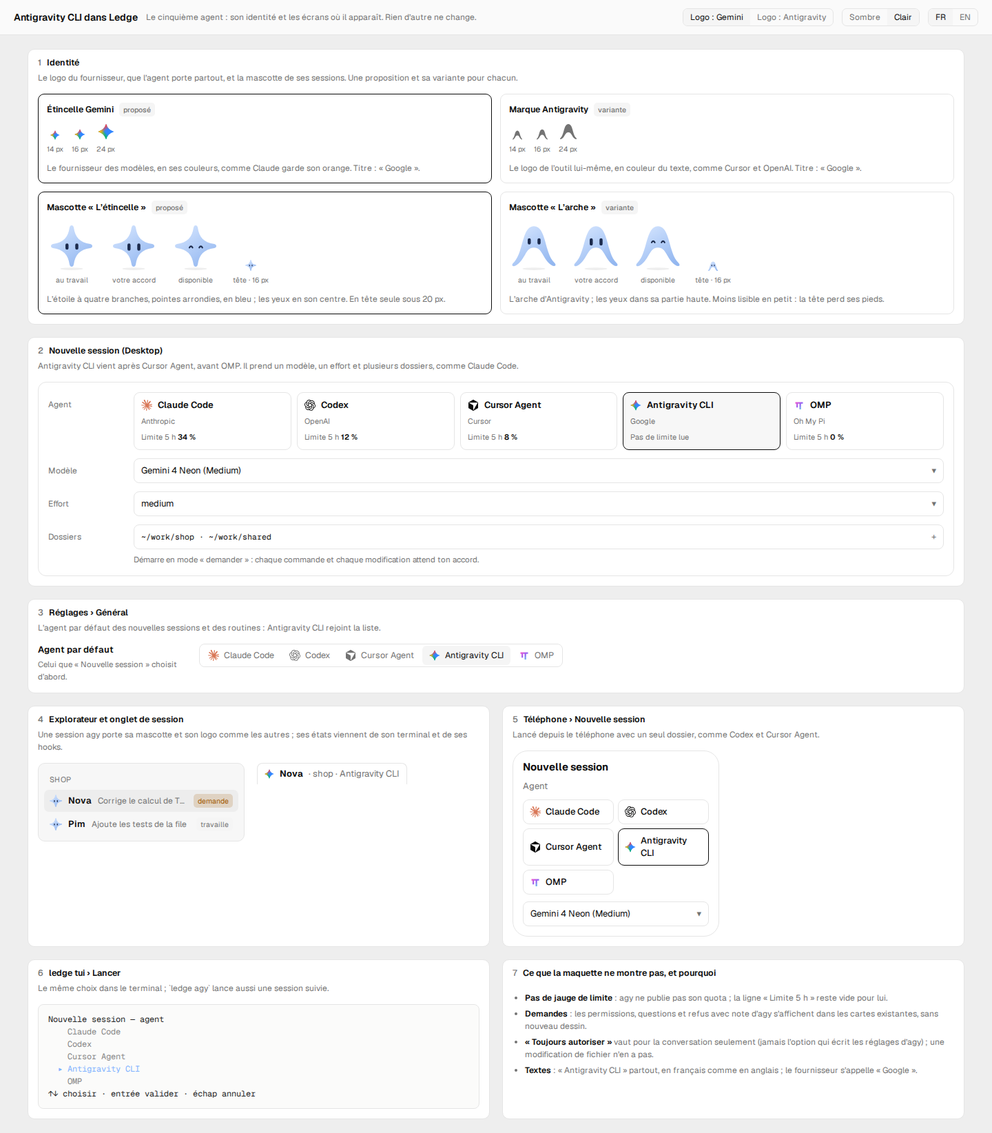
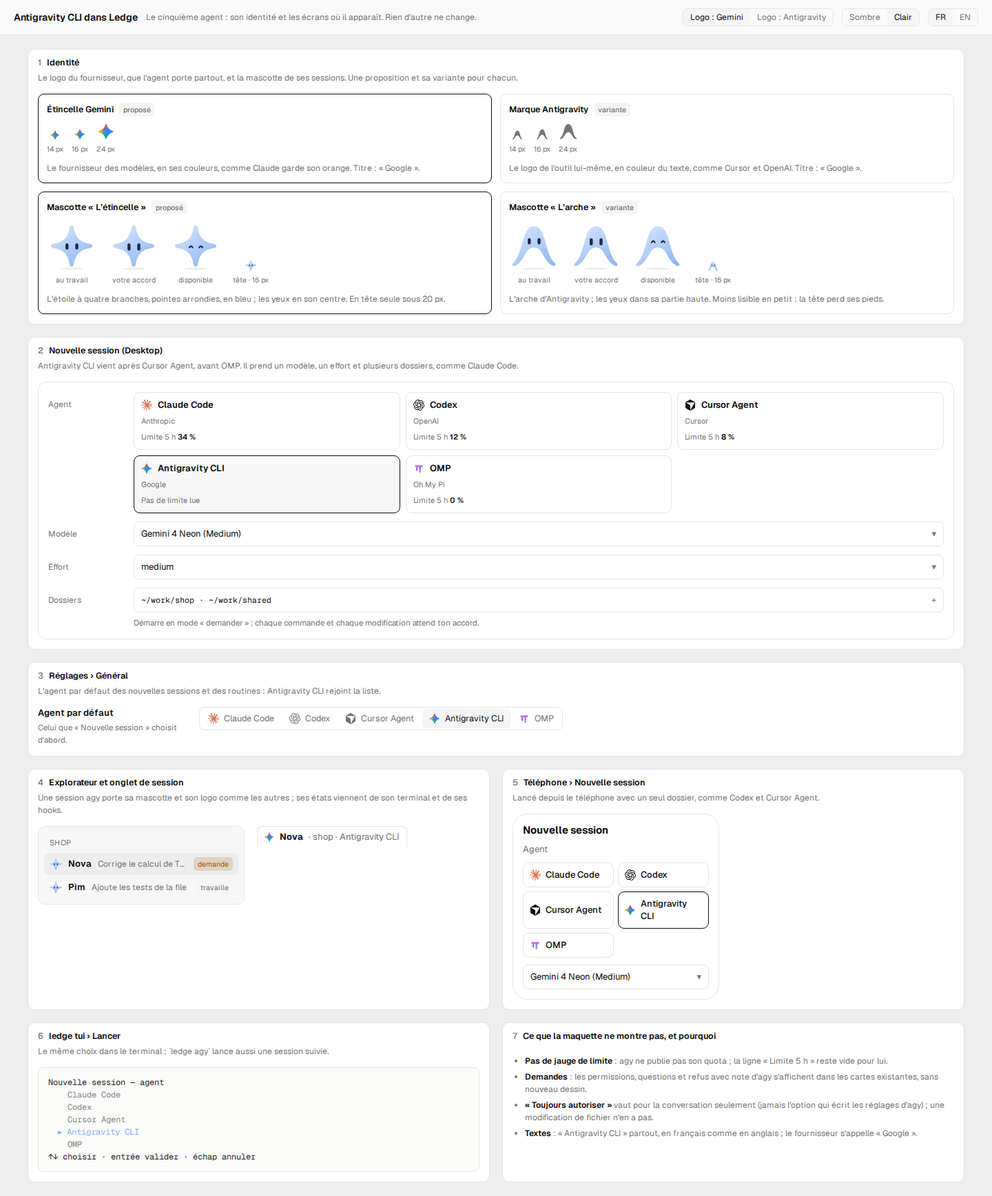
feat(desktop): Antigravity CLI in New session, Settings, routines and the session views
As approved in docs/mockups/ledge-agy.html: agy after Cursor Agent and
before OMP with Gemini's mark and « Google », « Pas de limite lue » on its
tile, the asking-mode hint under the form, and the agents' tiles in rows of
three (five in one row wrapped every name in the real 780 px dialog; the
owner chose the rows). A launch is blocked with its reason where the daemon
does not announce agy or agy cannot list its models, as OMP's. A model id of
Gemini wears Gemini's mark in the session bar. Checked with Playwright in
both themes (launch dialog with agy chosen, default agent).

Written with Codex, reviewed and corrected here.

diff --git a/apps/desktop/src/i18n/fr.ts b/apps/desktop/src/i18n/fr.ts
@@ -1328,10 +1328,11 @@ export const fr = {
     isDefault: 'Présélectionné pour vos prochaines sessions.', defaultStays: (n: string) => `Votre défaut reste ${n}.`, setDefault: (n: string) => `Définir ${n} par défaut`, doneChoosing: 'Terminer le choix',
     onlyThisOne: (n: string) => `Pour cette session uniquement. Défaut : ${n}.`, backToDefault: 'Revenir au défaut',
     switched: (n: string) => `${n} pour cette session. Consigne, projet et dépôts conservés ; modèle remis au défaut de l’agent.`, defaultSaved: (n: string) => `${n} sera présélectionné pour les prochaines sessions.`,
+    agyHint: 'Démarre en mode « demander » : chaque commande et chaque modification attend ton accord.',
     ompNative: 'Conversation pilotée dans Ledge. Seul le shell libre reste disponible, sans suivi terminal OMP.',
     approval: 'Autorisations', approvalOutdated: 'Mettez à jour Ledge sur cette machine pour choisir les autorisations d’OMP : il demandera avant chaque écriture ou commande.',
     approvals: { 'always-ask': ['Demander', 'Avant chaque écriture ou commande'], write: ['Fichiers auto', 'Écrit sans demander, demande avant les commandes'], yolo: ['Auto', 'Approuve tout, commandes comprises'] } as Record<OmpApproval, readonly [string, string]>,
-    tools: { claude: ['Claude Code', 'Conception, revue'], codex: ['Codex', 'Code et tests'], cursor: ['Cursor Agent', 'Dans l’éditeur'], omp: ['OMP', 'Piloté en natif'] } as Record<'claude' | 'codex' | 'cursor' | 'omp', readonly [string, string]>,
+    tools: { claude: ['Claude Code', 'Conception, revue'], codex: ['Codex', 'Code et tests'], cursor: ['Cursor Agent', 'Dans l’éditeur'], agy: ['Antigravity CLI', 'Google'], omp: ['OMP', 'Piloté en natif'] } as Record<'claude' | 'codex' | 'cursor' | 'agy' | 'omp', readonly [string, string]>,
     project: 'Projet', machine: 'Machine', offline: 'hors ligne', offlineTitle: 'Hors ligne : reconnectez la machine dans les réglages',
     repos: (m: string) => `Dossiers et dépôts sur ${m}`, noGit: 'Dossier sans Git', notFound: 'introuvable', oneRepo: (t: string) => `Un seul dossier ou dépôt pour ${t}`,
     noRepos: (p: string, m: string) => `Aucun dossier ni dépôt de ${p} sur ${m}.`, editProject: 'Modifier le projet',
@@ -1349,6 +1350,7 @@ export const fr = {
     searchModel: 'Chercher un modèle ou taper un identifiant', searchFew: 'Chercher, ou taper un identifiant', searchMany: (n: number) => `Chercher parmi ${n} modèles, ou taper un identifiant`, resultCount: (n: number, total: number) => `${n} sur ${total}`,
     useAsIs: 'Utiliser tel quel', noMatch: 'Aucun modèle ne correspond.', notAnId: 'Aucun modèle ne correspond, et ce n’est pas un identifiant de modèle.', moreModels: (n: number) => `${n} autres : tapez pour les chercher`,
     modelsLoading: 'Lecture des modèles de la machine…', modelsUnavailable: (e: string) => `Liste des modèles indisponible (${e}) : le défaut et un identifiant exact restent possibles.`,
+    agyOutdated: 'Antigravity CLI ne peut pas être lancé ici : mettez à jour Ledge sur cette machine.', agyUnavailable: (e: string) => `Antigravity CLI ne peut pas être lancé sur cette machine (${e}). Choisissez un autre agent ou installez agy là-bas ; rien n’est changé à votre place.`,
     ompOutdated: 'OMP ne peut pas être lancé ici : mettez à jour Ledge sur cette machine.', ompUnavailable: (e: string) => `OMP ne peut pas être lancé sur cette machine (${e}). Choisissez un autre agent ou réparez OMP là-bas ; rien n’est changé à votre place.`,
     modelsOutdated: 'Mettez à jour Ledge sur cette machine pour choisir le modèle.',
     effort: 'Effort', effortHint: 'Temps de réflexion par tour', cursorEffort: 'Effort compris dans le nom du modèle', lessEffort: 'Moins d’effort', moreEffort: 'Plus d’effort',
@@ -1363,7 +1365,7 @@ export const fr = {
       agent: 'Agent', model: 'Modèle', permissions: 'Permissions', message: 'Premier message',
       open: 'Ouvrir', openActive: 'Dans le groupe actif', openRight: 'À droite',
       limit: (pct: string, reset: string | null) => `Limite 5 h ${pct}${reset ? ` · réinit. ${reset}` : ''}`, limitMonth: (pct: string, reset: string | null) => `Limite du mois ${pct}${reset ? ` · réinit. ${reset}` : ''}`,
-      limitWeek: (pct: string, reset: string | null) => `Limite de la semaine ${pct}${reset ? ` · réinit. ${reset}` : ''}`, limitUnread: 'Limite non lue',
+      limitWeek: (pct: string, reset: string | null) => `Limite de la semaine ${pct}${reset ? ` · réinit. ${reset}` : ''}`, limitUnread: 'Limite non lue', noLimitRead: 'Pas de limite lue',
       offline: 'hors ligne', launch: 'Lancer', launchKeys: 'Ctrl Entrée', cancel: 'Annuler',
       // docs/mockups/ledge-sidebar-names.html, card 4: the name stands in the title and is edited there (it replaced #15's switch).
       name: 'Nom', renameTip: 'Renommer', editHint: (n: string) => `Entrée valide le nom · Échap revient à ${n}`,

diff --git a/apps/desktop/src/i18n/en.ts b/apps/desktop/src/i18n/en.ts
@@ -1256,10 +1256,11 @@ export const en: Messages = {
     isDefault: 'Preselected for your next sessions.', defaultStays: (n) => `Your default stays ${n}.`, setDefault: (n) => `Make ${n} the default`, doneChoosing: 'Done',
     onlyThisOne: (n) => `For this session only. Default: ${n}.`, backToDefault: 'Back to the default',
     switched: (n) => `${n} for this session. Instruction, project and repositories kept; model back to the agent’s default.`, defaultSaved: (n) => `${n} will be preselected for the next sessions.`,
+    agyHint: 'Starts in the asking mode: every command and every edit waits for your approval.',
     ompNative: 'The conversation is driven in Ledge. Only the free shell remains, with no OMP terminal to follow.',
     approval: 'Permissions', approvalOutdated: 'Update Ledge on this machine to choose OMP’s permissions: it will ask before every write or command.',
     approvals: { 'always-ask': ['Ask', 'Before every write or command'], write: ['Auto files', 'Writes without asking, asks before commands'], yolo: ['Auto', 'Approves everything, commands included'] },
-    tools: { claude: ['Claude Code', 'Design, review'], codex: ['Codex', 'Code and tests'], cursor: ['Cursor Agent', 'In the editor'], omp: ['OMP', 'Driven natively'] },
+    tools: { claude: ['Claude Code', 'Design, review'], codex: ['Codex', 'Code and tests'], cursor: ['Cursor Agent', 'In the editor'], agy: ['Antigravity CLI', 'Google'], omp: ['OMP', 'Driven natively'] },
     project: 'Project', machine: 'Machine', offline: 'offline', offlineTitle: 'Offline: reconnect the machine in Settings',
     repos: (m) => `Folders and repositories on ${m}`, noGit: 'Folder without Git', notFound: 'not found', oneRepo: (t) => `One folder or repository only for ${t}`,
     noRepos: (p, m) => `No folder or repository of ${p} on ${m}.`, editProject: 'Edit the project',
@@ -1277,6 +1278,7 @@ export const en: Messages = {
     searchModel: 'Search a model or type an id', searchFew: 'Search, or type an id', searchMany: (n: number) => `Search ${n} models, or type an id`, resultCount: (n: number, total: number) => `${n} of ${total}`,
     useAsIs: 'Use as is', noMatch: 'No model matches.', notAnId: 'No model matches, and this is not a model id.', moreModels: (n: number) => `${n} more: type to search them`,
     modelsLoading: 'Reading the machine’s models…', modelsUnavailable: (e: string) => `Model list unavailable (${e}): the default and an exact id still work.`,
+    agyOutdated: 'Antigravity CLI cannot be launched here: update Ledge on this machine.', agyUnavailable: (e: string) => `Antigravity CLI cannot be launched on this machine (${e}). Pick another agent or install agy there; nothing is switched for you.`,
     ompOutdated: 'OMP cannot be launched here: update Ledge on this machine.', ompUnavailable: (e: string) => `OMP cannot be launched on this machine (${e}). Pick another agent or fix OMP there; nothing is switched for you.`,
     modelsOutdated: 'Update Ledge on this machine to choose the model.',
     effort: 'Effort', effortHint: 'Thinking time per turn', cursorEffort: 'Effort is in the model name', lessEffort: 'Less effort', moreEffort: 'More effort',
@@ -1290,7 +1292,7 @@ export const en: Messages = {
       agent: 'Agent', model: 'Model', permissions: 'Permissions', message: 'First message',
       open: 'Open', openActive: 'In the active group', openRight: 'On the right',
       limit: (pct, reset) => `5 h limit ${pct}${reset ? ` · resets ${reset}` : ''}`, limitMonth: (pct, reset) => `Monthly limit ${pct}${reset ? ` · resets ${reset}` : ''}`,
-      limitWeek: (pct, reset) => `Weekly limit ${pct}${reset ? ` · resets ${reset}` : ''}`, limitUnread: 'Limit not read',
+      limitWeek: (pct, reset) => `Weekly limit ${pct}${reset ? ` · resets ${reset}` : ''}`, limitUnread: 'Limit not read', noLimitRead: 'No limit read',
       offline: 'offline', launch: 'Launch', launchKeys: 'Ctrl Enter', cancel: 'Cancel',
       name: 'Name', renameTip: 'Rename', editHint: (n) => `Enter keeps the name · Esc goes back to ${n}`,
       cleaned: (n) => `The session will be called ${n}: spaces and punctuation are removed.`,

diff --git a/apps/desktop/e2e/ide-launch.spec.ts b/apps/desktop/e2e/ide-launch.spec.ts
@@ -47,16 +47,18 @@ for (const theme of ['dark', 'light'] as const) test(`a group's + opens the moda
   const labelX = (await box(labels.first())).x;
   expect(Math.round(fieldsX - labelX)).toBe(166);
   for (const l of await labels.all()) expect(Math.round((await box(l)).x)).toBe(Math.round(labelX));
-  // Four agent tiles side by side, as wide as each other; Claude's limit amber (84 % over 80 %), Cursor's not read.
+  // Five agent tiles in rows of three (the owner's choice, 2026-11-27: five in one row wrap every name), as wide as each other; Claude's limit amber (84 % over 80 %), Cursor's not read.
   const tiles = form.locator('.launch-modal-agent');
-  await expect(tiles).toHaveCount(4);
+  await expect(tiles).toHaveCount(5);
   const tb = await Promise.all((await tiles.all()).map(box));
-  expect(new Set(tb.map(b => Math.round(b.y))).size).toBe(1);
+  expect(new Set(tb.map(b => Math.round(b.y))).size).toBe(2);
   expect(new Set(tb.map(b => Math.round(b.width))).size).toBe(1);
   await expect(tiles.nth(0)).toContainText(/Limite 5 h 84 % · réinit\. /);
   await expect(tiles.nth(0).locator('b.amber')).toHaveText('84 %');
   await expect(tiles.nth(1).locator('b')).not.toHaveClass(/amber/);
   await expect(tiles.nth(2)).toContainText('Limite non lue');
+  await expect(tiles.nth(3)).toContainText('Antigravity CLI');
+  await expect(tiles.nth(3)).toContainText('Pas de limite lue');
   // The fields bordered as the mockup's .inp and .agent (app.css's button reset must not win), the Project and Model fields 30 px high.
   const border = (l: Locator) => l.evaluate(e => getComputedStyle(e).borderTopWidth);
   expect(await border(form.locator('.launch-modal-inp'))).toBe('1px');
@@ -81,6 +83,18 @@ for (const theme of ['dark', 'light'] as const) test(`a group's + opens the moda
   await expect(dialog).toBeVisible();
   await page.evaluate(() => document.fonts.ready.then(() => undefined));
   await dialog.screenshot({ path: info.outputPath(`ide-launch-${theme}.png`), animations: 'disabled' });
+  // Antigravity CLI chosen (docs/mockups/ledge-agy.html, card 2): its name on one line at the others' size, Gemini's mark, the
+  // asking-mode hint under the form; on a daemon that does not announce it, the launch is blocked with the reason.
+  await tiles.nth(3).click();
+  await expect(tiles.nth(3)).toHaveAttribute('aria-pressed', 'true');
+  await expect(tiles.nth(3).locator('.logo')).toHaveAttribute('title', 'Google');
+  const nameOf = (i: number) => tiles.nth(i).locator('.an');
+  expect(Math.round((await box(nameOf(3))).height)).toBe(Math.round((await box(nameOf(0))).height));
+  expect(await nameOf(3).evaluate(e => getComputedStyle(e).fontSize)).toBe(await nameOf(0).evaluate(e => getComputedStyle(e).fontSize));
+  await expect(form).toContainText('Démarre en mode « demander »');
+  await page.evaluate(() => document.fonts.ready.then(() => undefined));
+  await dialog.screenshot({ path: info.outputPath(`ide-launch-agy-${theme}.png`), animations: 'disabled' });
+  await tiles.nth(0).click();
   // The model list: each row wears its provider's logo.
   await form.locator('.model-trigger').click();
   await expect(page.locator('.model-menu .model-option .logo')).toHaveCount(1);

diff --git a/apps/desktop/src/launch/LaunchModal.tsx b/apps/desktop/src/launch/LaunchModal.tsx
@@ -27,7 +27,7 @@ import type { LaunchState } from './useLaunch';
 
 export type LaunchWhere = 'active' | 'right';
 
-const TOOLS: readonly Tool[] = ['claude', 'codex', 'cursor', 'omp'];
+const TOOLS: readonly Tool[] = ['claude', 'codex', 'cursor', 'agy', 'omp'];
 const APPROVALS: readonly OmpApproval[] = ['always-ask', 'write', 'yolo'];
 
 const onRow = (f: LaunchForm, r: ProjectRow) => f.project === r.project && f.machine === r.machine && f.repos[0] === r.path;
@@ -102,7 +102,7 @@ export function LaunchModal(p: {
   const infos = useRepoInfo(p.client, online ? form.machine : null, reposOn(project, form.machine).map(r => r.path));
   const models = useModels(p.client, online ? form.machine : null, form.tool);
   const outdated = models.error === 'outdated';
-  const unavailable = ompBlocked(form, online, models);
+  const unavailable = ompBlocked(form, online, models, chosen?.daemon);
   const approvable = chosen?.daemon?.ompApproval === true;
   const memo = loadPick(form.project, form.tool);
   const remembered = !!memo?.remembered && memo.model === form.model && memo.effort === form.effort;
@@ -222,13 +222,13 @@ export function LaunchModal(p: {
             {TOOLS.map(tool => (
               <button type="button" key={tool} className={cls('launch-modal-agent', form.tool === tool && 'on')} aria-pressed={form.tool === tool}
                 onClick={() => { if (tool !== form.tool) setForm(f => withTool(f, tool, loadPick(f.project, tool))); }}>
-                <span className="an"><span aria-hidden="true"><ProviderLogo provider={providerOf(tool)} size={16} /></span>{t.launch.tools[tool][0]}</span>
+                <span className="an"><span aria-hidden="true"><ProviderLogo provider={providerOf(tool)} size={16} /></span><span>{t.launch.tools[tool][0]}</span></span>
                 <small>{PROVIDER_TITLES[providerOf(tool)]}</small>
-                <LimitLine limit={agentLimit(p.usage.groups, tool, form.machine, p.usage.threshold, p.usage.now)} lang={lang} now={p.usage.now} m={m} />
+                {tool === 'agy' ? <small>{m.noLimitRead}</small> : <LimitLine limit={agentLimit(p.usage.groups, tool, form.machine, p.usage.threshold, p.usage.now)} lang={lang} now={p.usage.now} m={m} />}
               </button>
             ))}
           </div>
-          {unavailable !== null && <p className="launch-modal-alert" role="alert">{unavailable === 'outdated' ? t.launch.ompOutdated : t.launch.ompUnavailable(unavailable)}</p>}
+          {unavailable !== null && <p className="launch-modal-alert" role="alert">{form.tool === 'agy' ? (unavailable === 'outdated' ? t.launch.agyOutdated : t.launch.agyUnavailable(unavailable)) : unavailable === 'outdated' ? t.launch.ompOutdated : t.launch.ompUnavailable(unavailable)}</p>}
         </div>
 
         <span className="launch-modal-lbl">{m.model}</span>
@@ -262,6 +262,8 @@ export function LaunchModal(p: {
             </label>
           ))}
         </div>
+
+        {form.tool === 'agy' && <><span /><small className="models-note">{t.launch.agyHint}</small></>}
 
         <span />
         <div className="launch-modal-go">

diff --git a/apps/desktop/src/launch/LaunchComposer.tsx b/apps/desktop/src/launch/LaunchComposer.tsx
@@ -21,7 +21,7 @@ import { useDefaultTool } from '../settings/tool';
 // The IDE's New session modal rides in this module's lazy chunk (launch/lazy.tsx).
 export { LaunchModal } from './LaunchModal';
 
-const TOOLS: readonly Tool[] = ['claude', 'codex', 'cursor', 'omp'];
+const TOOLS: readonly Tool[] = ['claude', 'codex', 'cursor', 'agy', 'omp'];
 const APPROVALS: readonly OmpApproval[] = ['always-ask', 'write', 'yolo'];
 const folderName = (path: string) => path.replace(/[\\/]+$/, '').split(/[\\/]/).pop() || path;
 
@@ -71,7 +71,7 @@ export function LaunchComposer(p: {
   // #58: the agent's models on that machine; a daemon too old for them takes no model, so none is offered or sent.
   const models = useModels(p.client, online ? form.machine : null, form.tool);
   const outdated = models.error === 'outdated';
-  const unavailable = ompBlocked(form, online, models);
+  const unavailable = ompBlocked(form, online, models, chosen?.daemon);
   const memo = loadPick(form.project, form.tool);
   const remembered = !!memo?.remembered && memo.model === form.model && memo.effort === form.effort;
 
@@ -191,7 +191,7 @@ export function LaunchComposer(p: {
           {!choosing && form.tool !== defaultTool && (
             <div className="harness-override"><span>{t.launch.onlyThisOne(label(defaultTool))}</span><button type="button" onClick={() => choose(defaultTool)}>{t.launch.backToDefault}</button></div>
           )}
-          {unavailable !== null && <p className="harness-unavailable" role="alert">{unavailable === 'outdated' ? t.launch.ompOutdated : t.launch.ompUnavailable(unavailable)}</p>}
+          {unavailable !== null && <p className="harness-unavailable" role="alert">{form.tool === 'agy' ? (unavailable === 'outdated' ? t.launch.agyOutdated : t.launch.agyUnavailable(unavailable)) : unavailable === 'outdated' ? t.launch.ompOutdated : t.launch.ompUnavailable(unavailable)}</p>}
           {online && !unavailable && (outdated ? <small className="models-note">{t.launch.modelsOutdated}</small>
             : <ModelPicker key={`${form.machine}|${form.tool}|${form.project}`} tool={form.tool} state={models} pick={form} remembered={remembered} onPick={pick => setForm(f => withPick(f, pick))} />)}
           {form.tool === 'omp' && !unavailable && (approvable ? (
@@ -205,6 +205,7 @@ export function LaunchComposer(p: {
               <small className="chip-hint">{t.launch.approvals[form.approval][1]}</small>
             </fieldset>
           ) : online && <small className="models-note">{t.launch.approvalOutdated}</small>)}
+          {form.tool === 'agy' && <p className="harness-native">{t.launch.agyHint}</p>}
           {form.tool === 'omp' && <p className="harness-native">{t.launch.ompNative}</p>}
           <p className="harness-live" role="status">{feedback}</p>
         </section>

diff --git a/docs/mockups/ledge-agy.html b/docs/mockups/ledge-agy.html
@@ -8,6 +8,8 @@
 <link href="https://fonts.googleapis.com/css2?family=Geist:wght@400;500;600;650&family=Geist+Mono:wght@400;500&display=swap" rel="stylesheet">
 <style>
 /* Approuvée par l'owner le 2026-11-27 : logo Gemini (« google ») et mascotte « L'étincelle » ; les variantes Antigravity et « L'arche » sont écartées.
+   Précisé le même jour : les tuiles d'agents de « Nouvelle session » par rangées de trois (cinq sur une ligne font passer chaque nom à la ligne
+   dans la fenêtre réelle) ; sur le téléphone, la tuile d'agy dit « Modèles Gemini » / « Gemini models », comme les autres disent leur rôle.
    Antigravity CLI (agy) comme cinquième agent : son identité (logo du fournisseur, mascotte) et les écrans où il apparaît.
    Base : docs/mockups/ledge-launch-name.html (même grille, mêmes tokens), packages/ui (ProviderLogo, Bot, logo.css),
    apps/desktop/src/launch/LaunchModal.tsx, settings/General.tsx, apps/mobile/src/screens/NewSession.tsx, ledge tui.
@@ -59,7 +61,7 @@ main{padding:20px;display:grid;grid-template-columns:repeat(2,minmax(0,1fr));gap
 /* Nouvelle session (Desktop) */
 .modal{background:var(--background);border:1px solid var(--border);border-radius:12px;padding:14px;display:grid;grid-template-columns:110px 1fr;gap:12px 14px;align-items:start}
 .lbl{color:var(--muted-foreground);font-size:12px;padding-top:9px}
-.agents{display:grid;grid-template-columns:repeat(5,minmax(0,1fr));gap:8px}
+.agents{display:grid;grid-template-columns:repeat(3,minmax(0,1fr));gap:8px}
 .agent{display:flex;flex-direction:column;gap:5px;padding:9px 10px;border:1px solid var(--border);border-radius:9px;min-width:0}
 .agent.on{border-color:var(--foreground);background:color-mix(in srgb,var(--foreground) 3%,transparent)}
 .agent .an{display:flex;align-items:center;gap:8px;font-weight:600;white-space:nowrap;overflow:hidden;text-overflow:ellipsis}

diff --git a/apps/desktop/test/agy-launch.test.ts b/apps/desktop/test/agy-launch.test.ts
@@ -1,0 +1,20 @@
+import { expect, it } from 'vitest';
+import { launchMessage, toggleRepo, withTool, type LaunchForm } from '../src/launch/model';
+import { ompBlocked } from '../src/launch/send';
+
+it('keeps and sends multiple folders, model and effort for Antigravity', () => {
+  const form: LaunchForm = { tool: 'claude', prompt: 'Go', project: 'p', machine: 'local', repos: ['/a', '/b'], model: null, effort: null, approval: 'always-ask' };
+  const agy = toggleRepo(withTool(form, 'agy', { model: 'gemini', effort: 'high' }), '/c');
+  expect(launchMessage(agy, 'Nova')).toMatchObject({ tool: 'agy', cwd: '/a', dirs: ['/b', '/c'], model: 'gemini', effort: 'high' });
+  expect(withTool(agy, 'cursor').repos).toEqual(['/a']);
+});
+
+it('blocks an Antigravity CLI launch on a daemon that does not announce it, or where agy cannot list its models', () => {
+  const ready = { status: 'ready' as const, models: [] };
+  expect(ompBlocked({ tool: 'agy' }, true, ready, { agy: false })).toBe('outdated');
+  expect(ompBlocked({ tool: 'agy' }, true, ready, { agy: true })).toBeNull();
+  expect(ompBlocked({ tool: 'agy' }, true, { ...ready, error: 'not installed' }, { agy: true })).toBe('not installed');
+  // Offline, nothing is said: the machine's own state is shown instead.
+  expect(ompBlocked({ tool: 'agy' }, false, ready, { agy: false })).toBeNull();
+  expect(ompBlocked({ tool: 'claude' }, true, ready, { agy: false })).toBeNull();
+});

diff --git a/apps/desktop/src/styles/ide.css b/apps/desktop/src/styles/ide.css
@@ -395,12 +395,12 @@ body.ide-resizing-y { cursor: row-resize; user-select: none; }
 .launch-modal-rows button:disabled { opacity: .55; cursor: not-allowed; }
 .launch-modal-rows small { margin-left: auto; font-size: 11px; color: var(--muted-foreground); }
 .launch-modal-empty { display: flex; align-items: center; gap: 12px; padding-top: 2px; }
-.launch-modal-agents { display: grid; grid-template-columns: repeat(4, minmax(0, 1fr)); gap: 8px; }
+.launch-modal-agents { display: grid; grid-template-columns: repeat(3, minmax(0, 1fr)); gap: 8px; }
 .launch-modal .launch-modal-agent { min-width: 0; display: flex; flex-direction: column; gap: 5px; padding: 9px 10px; border: 1px solid var(--border); border-radius: 9px; text-align: left; color: var(--foreground); }
 .launch-modal .launch-modal-agent:hover { border-color: var(--input); }
 .launch-modal .launch-modal-agent.on { border-color: var(--foreground); background: color-mix(in srgb, var(--foreground) 3%, transparent); }
 .launch-modal-agent .an { display: flex; align-items: center; gap: 8px; font-weight: 600; }
-.launch-modal-agent .an > span { display: inline-flex; }
+.launch-modal-agent .an > span:first-child { display: inline-flex; flex: none; }
 .launch-modal-agent small { color: var(--muted-foreground); font-size: 11px; }
 .launch-modal-agent small b { font-weight: 500; color: var(--foreground); }
 .launch-modal-agent small b.amber { color: var(--warning); }

diff --git a/apps/desktop/src/launch/send.ts b/apps/desktop/src/launch/send.ts
@@ -5,9 +5,11 @@ import type { ModelsState } from './useModels';
 import { savePick } from './modelPrefs';
 
 /** OMP is launched by the daemon itself, with no fallback to another harness: where it cannot be reached (not installed, a daemon
- *  that does not know it, no credentials), the launch is blocked with the reason (spec 2026-10-20 §3.1). */
-export function ompBlocked(form: Pick<LaunchForm, 'tool'>, online: boolean, models: ModelsState): string | null {
-  return form.tool === 'omp' && online && models.status === 'ready' && models.error ? models.error : null;
+ *  that does not know it, no credentials), the launch is blocked with the reason (spec 2026-10-20 §3.1). Antigravity CLI the same:
+ *  a daemon older than its support refuses the tool (`outdated`), one without `agy` installed cannot list its models. */
+export function ompBlocked(form: Pick<LaunchForm, 'tool'>, online: boolean, models: ModelsState, daemon?: { agy?: boolean } | null): string | null {
+  if (form.tool === 'agy' && online && daemon && !daemon.agy) return 'outdated';
+  return (form.tool === 'omp' || form.tool === 'agy') && online && models.status === 'ready' && models.error ? models.error : null;
 }
 
 /** The message sent for `form`: the model chosen is remembered for the project (unless the daemon is too old for models, which then

diff --git a/apps/desktop/test/ide/launch-modal.test.tsx b/apps/desktop/test/ide/launch-modal.test.tsx
@@ -273,7 +273,19 @@ describe('LaunchModal', () => {
       expect(trigger().querySelector('.logo')).toHaveAttribute('title', 'Cursor');
       await user.click(trigger());
       const rows = screen.getAllByRole('option');
-      expect(rows.map(r => r.querySelector('.logo')?.getAttribute('title'))).toEqual(['Cursor', 'Anthropic', 'OpenAI', 'Cursor']);
+      expect(rows.map(r => r.querySelector('.logo')?.getAttribute('title'))).toEqual(['Cursor', 'Anthropic', 'OpenAI', 'Google']);
     });
   });
+});
+
+it('offers Antigravity after Cursor with its Google identity and asking hint', async () => {
+  const user = userEvent.setup();
+  render(ui(props()));
+  const buttons = within(screen.getByRole('group', { name: 'Agent' })).getAllByRole('button');
+  expect(buttons.map(b => b.querySelector('.an')?.textContent)).toEqual(['Claude Code', 'Codex', 'Cursor Agent', 'Antigravity CLI', 'OMP']);
+  const agy = buttons[3]!;
+  expect(agy).toHaveTextContent('Google');
+  expect(agy).toHaveTextContent('Pas de limite lue');
+  await user.click(agy);
+  expect(screen.getByText('Démarre en mode « demander » : chaque commande et chaque modification attend ton accord.')).toBeVisible();
 });

diff --git a/apps/desktop/src/workspace/sessionTab.ts b/apps/desktop/src/workspace/sessionTab.ts
@@ -11,12 +11,13 @@ export { providerOf, type Provider } from '@ledge/ui/logos/ProviderLogo';
 import type { Provider } from '@ledge/ui/logos/ProviderLogo';
 
 /** The provider of a model, by its id (each segment of « provider/model » tried): Claude's, OpenAI's or Cursor's own; null
- *  for one with no logo in our set (Gemini…) or none known, where the caller shows the tool's provider. The session bar
+ *  for one with no logo in our set or none known, where the caller shows the tool's provider. The session bar
  *  says the model's provider (a Cursor Agent running Claude wears the Claude mark); a tab says the harness's. */
 export function modelProvider(model: string | undefined): Provider | null {
   for (const part of (model ?? '').toLowerCase().split('/')) {
     if (/^(claude|anthropic)/.test(part)) return 'anthropic';
     if (/^(gpt|codex|openai)/.test(part) || /^o[134](\b|-)/.test(part)) return 'openai';
+    if (/^(gemini|google)/.test(part)) return 'google';
     if (/^(composer|cursor)/.test(part) || part === 'auto') return 'cursor';
   }
   return null;

diff --git a/apps/desktop/test/launch.test.tsx b/apps/desktop/test/launch.test.tsx
@@ -157,7 +157,7 @@ describe('LaunchComposer and its machines', () => {
     await user.click(screen.getByRole('radio', { name: 'Codex Code and tests' }));
     expect(document.querySelector('.composer-preview')!.textContent).toMatch(/^\w+ will join the Ledge table/);
     const bots = view.container.querySelectorAll('[data-paused]');
-    expect(bots).toHaveLength(6);                                          // the agent chosen, four tiles and the preview
+    expect(bots).toHaveLength(7);                                          // the agent chosen, five tiles and the preview
     bots.forEach(b => expect(b).toHaveAttribute('data-paused', 'true'));
     view.rerender(<LaunchComposer {...props(client, [local, nas])} />);
     view.container.querySelectorAll('[data-paused]').forEach(b => expect(b).toHaveAttribute('data-paused', 'false'));
